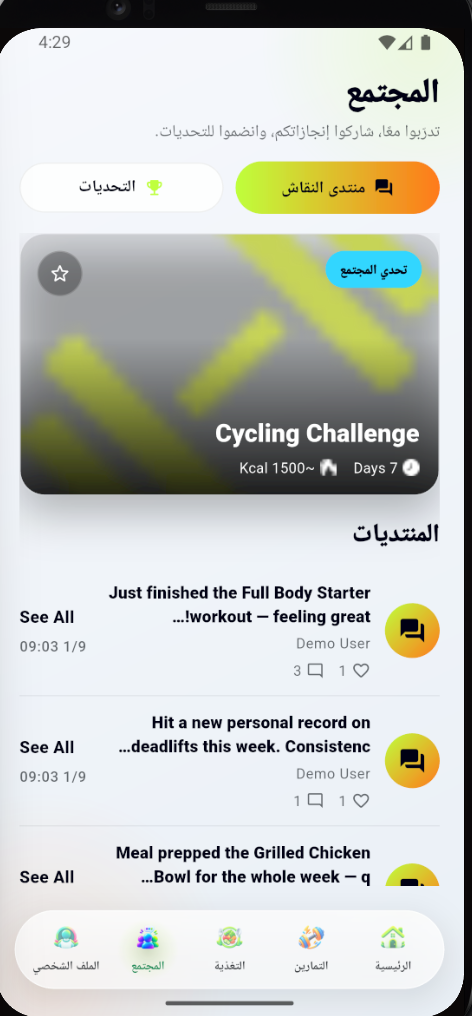
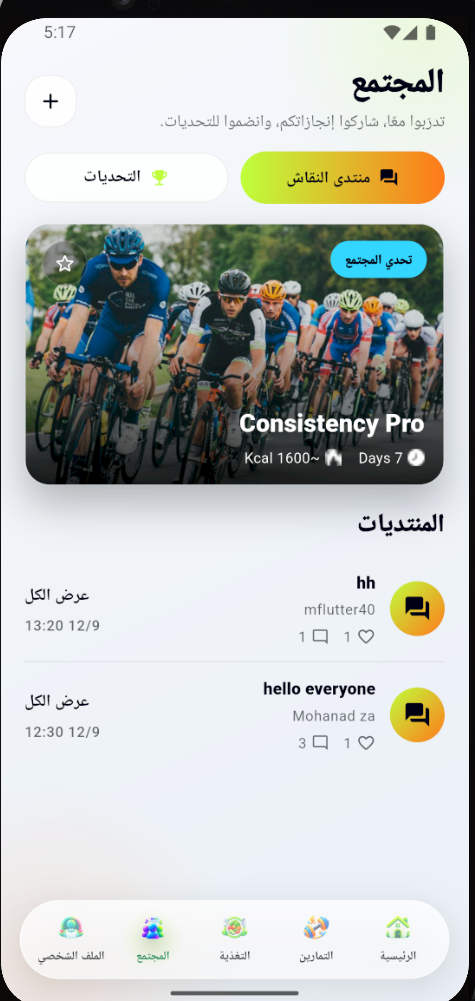
Restyle Help page with a calm support palette; tidy search page format
Help page: replaces the shared accent gradient/glow with a dedicated
blue/teal palette, distinct from the high-energy fitness accents used
elsewhere, so support content stays easy to scan. Search page: a
one-line formatting cleanup, no behavior change. Updates the community
screenshot to match.

diff --git a/lib/features/profile/presentation/pages/help_page.dart b/lib/features/profile/presentation/pages/help_page.dart
@@ -2,7 +2,6 @@ import 'package:flutter/material.dart';
 import 'package:flutter/services.dart';
 import 'package:go_router/go_router.dart';
 import 'package:nabvera/core/localization/generated/app_localizations.dart';
-import 'package:nabvera/core/theme/app_colors.dart';
 import 'package:nabvera/core/theme/app_spacing.dart';
 import 'package:nabvera/core/theme/app_theme_extension.dart';
 import 'package:nabvera/core/widgets/fade_slide_in.dart';
@@ -227,16 +226,23 @@ class _HelpHero extends StatelessWidget {
                 height: 48,
                 decoration: BoxDecoration(
                   shape: BoxShape.circle,
-                  gradient: ext.accentGradient,
+                  gradient: const LinearGradient(
+                    colors: [_helpBlue, _helpTeal],
+                    begin: Alignment.topLeft,
+                    end: Alignment.bottomRight,
+                  ),
                   boxShadow: [
                     BoxShadow(
-                      color: ext.accentGlow.withValues(alpha: 0.22),
+                      color: _helpBlue.withValues(alpha: 0.24),
                       blurRadius: 22,
                       offset: const Offset(0, 10),
                     ),
                   ],
                 ),
-                child: Icon(Icons.support_agent_rounded, color: ext.onAccent),
+                child: const Icon(
+                  Icons.support_agent_rounded,
+                  color: Colors.white,
+                ),
               ),
             ],
           ),
@@ -267,13 +273,13 @@ class _HelpHero extends StatelessWidget {
               _HelpMetric(
                 icon: Icons.quiz_outlined,
                 value: '$faqCount',
-                color: ext.accentGlow,
+                color: _helpAccent(context),
               ),
               const SizedBox(width: 10),
               _HelpMetric(
                 icon: Icons.forum_outlined,
                 value: '$contactCount',
-                color: theme.colorScheme.secondary,
+                color: _helpTeal,
               ),
             ],
           ),
@@ -390,7 +396,13 @@ class _ModeSegment extends StatelessWidget {
           duration: const Duration(milliseconds: 220),
           padding: const EdgeInsets.symmetric(vertical: 11),
           decoration: BoxDecoration(
-            gradient: selected ? ext.accentGradient : null,
+            gradient: selected
+                ? const LinearGradient(
+                    colors: [_helpBlue, _helpTeal],
+                    begin: Alignment.centerLeft,
+                    end: Alignment.centerRight,
+                  )
+                : null,
             borderRadius: BorderRadius.circular(AppRadius.md),
           ),
           child: Row(
@@ -399,7 +411,7 @@ class _ModeSegment extends StatelessWidget {
               Icon(
                 icon,
                 size: 17,
-                color: selected ? ext.onAccent : ext.textMuted,
+                color: selected ? Colors.white : ext.textMuted,
               ),
               const SizedBox(width: 7),
               Flexible(
@@ -408,7 +420,7 @@ class _ModeSegment extends StatelessWidget {
                   maxLines: 1,
                   overflow: TextOverflow.ellipsis,
                   style: TextStyle(
-                    color: selected ? ext.onAccent : ext.textPrimary,
+                    color: selected ? Colors.white : ext.textPrimary,
                     fontWeight: FontWeight.w800,
                   ),
                 ),
@@ -444,7 +456,7 @@ class _SearchField extends StatelessWidget {
       decoration: InputDecoration(
         hintText: hint,
         hintStyle: TextStyle(color: ext.textMuted),
-        prefixIcon: Icon(Icons.search_rounded, color: ext.accentGlow),
+        prefixIcon: Icon(Icons.search_rounded, color: _helpAccent(context)),
         suffixIcon: onClear == null
             ? null
             : IconButton(
@@ -455,7 +467,7 @@ class _SearchField extends StatelessWidget {
         fillColor: _surfaceTint(context, alpha: 0.82),
         border: _border(_borderTint(context)),
         enabledBorder: _border(_borderTint(context)),
-        focusedBorder: _border(ext.accentGlow, 1.4),
+        focusedBorder: _border(_helpAccent(context), 1.4),
       ),
     );
   }
@@ -494,13 +506,13 @@ class _CategoryTabs extends StatelessWidget {
             label: Text(labels[index]),
             selected: selected,
             onSelected: (_) => onSelected(index),
-            selectedColor: ext.accentGlow.withValues(alpha: 0.18),
+            selectedColor: _helpAccent(context).withValues(alpha: 0.14),
             backgroundColor: _surfaceTint(context, alpha: 0.7),
             side: BorderSide(
-              color: selected ? ext.accentGlow : _borderTint(context),
+              color: selected ? _helpAccent(context) : _borderTint(context),
             ),
             labelStyle: TextStyle(
-              color: selected ? ext.accentGlow : ext.textPrimary,
+              color: selected ? _helpAccent(context) : ext.textPrimary,
               fontWeight: FontWeight.w800,
             ),
           );
@@ -544,13 +556,13 @@ class _FaqCard extends StatelessWidget {
               borderRadius: BorderRadius.circular(AppRadius.card),
               border: Border.all(
                 color: expanded
-                    ? ext.accentGlow.withValues(alpha: 0.56)
+                    ? _helpAccent(context).withValues(alpha: 0.56)
                     : _borderTint(context),
               ),
               boxShadow: expanded
                   ? [
                       BoxShadow(
-                        color: ext.accentGlow.withValues(alpha: 0.14),
+                        color: _helpAccent(context).withValues(alpha: 0.14),
                         blurRadius: 26,
                         offset: const Offset(0, 12),
                       ),
@@ -566,13 +578,13 @@ class _FaqCard extends StatelessWidget {
                       width: 42,
                       height: 42,
                       decoration: BoxDecoration(
-                        color: ext.accentGlow.withValues(alpha: 0.14),
+                        color: _helpAccent(context).withValues(alpha: 0.12),
                         borderRadius: BorderRadius.circular(AppRadius.md),
                         border: Border.all(
-                          color: ext.accentGlow.withValues(alpha: 0.16),
+                          color: _helpAccent(context).withValues(alpha: 0.18),
                         ),
                       ),
-                      child: Icon(icon, color: ext.accentGlow, size: 21),
+                      child: Icon(icon, color: _helpAccent(context), size: 21),
                     ),
                     const SizedBox(width: 12),
                     Expanded(
@@ -582,7 +594,7 @@ class _FaqCard extends StatelessWidget {
                           Text(
                             categoryLabel,
                             style: TextStyle(
-                              color: ext.accentGlow,
+                              color: _helpAccent(context),
                               fontSize: 11,
                               fontWeight: FontWeight.w900,
                             ),
@@ -609,11 +621,11 @@ class _FaqCard extends StatelessWidget {
                         height: 30,
                         decoration: BoxDecoration(
                           shape: BoxShape.circle,
-                          color: ext.accentGlow.withValues(alpha: 0.12),
+                          color: _helpAccent(context).withValues(alpha: 0.12),
                         ),
                         child: Icon(
                           Icons.expand_more_rounded,
-                          color: ext.accentGlow,
+                          color: _helpAccent(context),
                         ),
                       ),
                     ),
@@ -679,7 +691,7 @@ class _ContactCard extends StatelessWidget {
                   width: 46,
                   height: 46,
                   decoration: BoxDecoration(
-                    color: ext.accentGlow.withValues(alpha: 0.14),
+                    color: _helpAccent(context).withValues(alpha: 0.12),
                     borderRadius: BorderRadius.circular(AppRadius.md),
                   ),
                   child: Center(
@@ -712,7 +724,7 @@ class _ContactCard extends StatelessWidget {
                     ],
                   ),
                 ),
-                Icon(Icons.copy_rounded, color: ext.accentGlow, size: 19),
+                Icon(Icons.copy_rounded, color: _helpAccent(context), size: 19),
               ],
             ),
           ),
@@ -762,28 +774,38 @@ class _NoResults extends StatelessWidget {
 Color _surfaceTint(BuildContext context, {required double alpha}) {
   final theme = Theme.of(context);
   return theme.brightness == Brightness.dark
-      ? AppColors.graphite.withValues(alpha: alpha)
-      : const Color(0xFFEAF4E2).withValues(alpha: alpha);
+      ? const Color(0xFF151D2A).withValues(alpha: alpha)
+      : const Color(0xFFF7F9FD).withValues(alpha: alpha);
 }
 
 Color _faqFill(BuildContext context, bool expanded) {
   final theme = Theme.of(context);
   if (theme.brightness == Brightness.dark) {
     return expanded
-        ? const Color(0xFF14211C).withValues(alpha: 0.94)
-        : AppColors.graphite.withValues(alpha: 0.78);
+        ? const Color(0xFF1A2940).withValues(alpha: 0.96)
+        : const Color(0xFF151D2A).withValues(alpha: 0.82);
   }
   return expanded
-      ? const Color(0xFFE5F3D5).withValues(alpha: 0.96)
-      : const Color(0xFFEEF6E8).withValues(alpha: 0.9);
+      ? const Color(0xFFEAF1FC).withValues(alpha: 0.98)
+      : const Color(0xFFF9FAFD).withValues(alpha: 0.92);
 }
 
 Color _borderTint(BuildContext context) {
   final theme = Theme.of(context);
   return theme.brightness == Brightness.dark
-      ? Colors.white.withValues(alpha: 0.10)
-      : AppColors.accentOnLight.withValues(alpha: 0.14);
+      ? const Color(0xFFAEC6EE).withValues(alpha: 0.16)
+      : const Color(0xFF315C9C).withValues(alpha: 0.14);
 }
+
+/// A calm support palette: separate from the high-energy fitness accents
+/// used elsewhere, so help content remains easy to scan for long periods.
+const _helpBlue = Color(0xFF315C9C);
+const _helpTeal = Color(0xFF287C86);
+
+Color _helpAccent(BuildContext context) =>
+    Theme.of(context).brightness == Brightness.dark
+    ? const Color(0xFF91B9FF)
+    : _helpBlue;
 
 class _HelpFaq {
   const _HelpFaq(this.question, this.answer, this.category);

diff --git a/lib/features/search/presentation/pages/search_page.dart b/lib/features/search/presentation/pages/search_page.dart
@@ -368,10 +368,8 @@ class _AllResultsSection extends StatelessWidget {
         if (featured.isNotEmpty) ...[
           LayoutBuilder(
             builder: (context, constraints) {
-              final itemWidth = (constraints.maxWidth * .72).clamp(
-                220.0,
-                290.0,
-              ).toDouble();
+              final itemWidth =
+                  (constraints.maxWidth * .72).clamp(220.0, 290.0).toDouble();
               return SizedBox(
                 height: 238,
                 child: ListView.separated(
